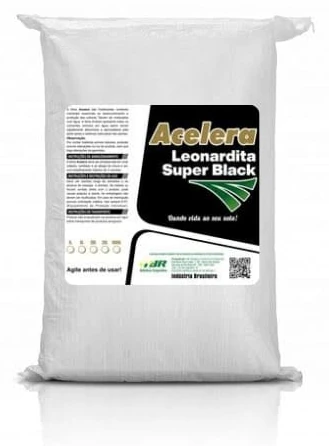
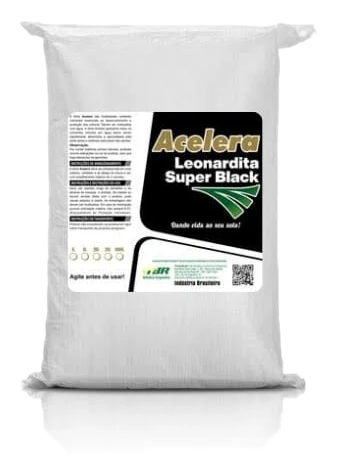
Remover fundo do Leonardita Super Black e atualizar foto do Super Hidrogel
Troca o metodo de recorte para GrabCut (OpenCV) nessas duas embalagens
em saco, ja que o fundo branco claro tinha pouco contraste com o
proprio tecido branco do saco e o flood-fill simples nao conseguia
separar os dois com seguranca. GrabCut segmenta corretamente mesmo
com baixo contraste, preservando a textura do saco.

diff --git a/site-institucional/vercel-site/index.html b/site-institucional/vercel-site/index.html
@@ -716,7 +716,7 @@
 
           <article class="product-card reveal" data-line="hidrogel" style="--line-color:var(--line-hidrogel)">
             <div class="product-shot">
-              <img src="images/produtos/super-hidrogel.jpg" alt="Frasco Super Hidrogel" loading="lazy" />
+              <img src="images/produtos/super-hidrogel.webp" alt="Frasco Super Hidrogel" loading="lazy" />
             </div>
             <div class="product-info">
               <div class="product-info-text">
@@ -880,7 +880,7 @@
 
           <article class="product-card reveal" data-line="hidrogel" style="--line-color:var(--line-hidrogel)">
             <div class="product-shot">
-              <img src="images/produtos/super-hidrogel.jpg" alt="Frasco Super Hidrogel" loading="lazy" />
+              <img src="images/produtos/super-hidrogel.webp" alt="Frasco Super Hidrogel" loading="lazy" />
             </div>
             <div class="product-info">
               <div class="product-info-text">
@@ -1214,7 +1214,7 @@
 
         <div class="product-detail-head reveal">
           <div class="product-detail-shot">
-            <img src="images/produtos/super-hidrogel.jpg" alt="Super Hidrogel">
+            <img src="images/produtos/super-hidrogel.webp" alt="Super Hidrogel">
           </div>
           <div class="product-detail-intro" style="--line-color:var(--line-hidrogel)">
             <span class="product-tag">Condicionador · 10kg</span>
